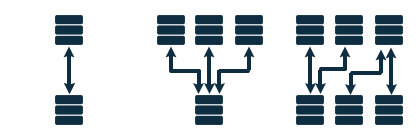
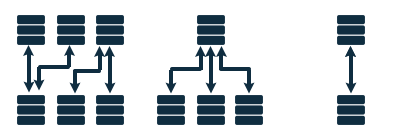
ui changes to relationsview(s)

diff --git a/appcubator/static/js/application/main-app/entities/CreateRelationView.js b/appcubator/static/js/application/main-app/entities/CreateRelationView.js
@@ -8,11 +8,12 @@ function(SelectView) {
     tagName    : 'div',
     collection : null,
     parentName : "",
+    id: 'new-relation',
     className  : 'span58 pane relation-pane',
 
     events : {
-      'click .create-relations-btn' : 'renderRelationsOptions',
-      'click .done-relation'        : 'saveRelationShip'
+      'click .done-relation'        : 'saveRelationShip',
+      'click .cancel-relation'       : 'cancel'
     },
 
     initialize: function(){
@@ -20,7 +21,7 @@ function(SelectView) {
     },
 
     render: function() {
-      this.el.innerHTML= '<div class="hi5 create-relations-btn"><span class="icon"></span>Create a Relation</div>';
+      this.renderRelationsOptions();
       return this;
     },
 
@@ -45,7 +46,7 @@ function(SelectView) {
     },
 
     relationSelected: function(answer) {
-      var cids = answer.val.replace('relation-','');
+      var cids = answer.replace('relation-','');
       var cid1 = cids.split('-')[0];
       var cid2 = cids.split('-')[1];
       var table1 = (v1State.get('users').get(cid1)||v1State.get('tables').get(cid1));
@@ -59,7 +60,7 @@ function(SelectView) {
 
       div.innerHTML  = _.template(TableTemplates.NewRelationTemplate, {table1: table1, table2: table2});
       div.innerHTML += _.template(TableTemplates.NewRelationTemplate, {table1: table2, table2: table1});
-      div.innerHTML += '<div class="btn done-relation">Done</div>';
+      div.innerHTML += '<div class="btn btn-info done-relation">Done</div><div class="btn offset1 cancel-relation">Cancel</div>';
 
       this.el.innerHTML = '';
       this.el.appendChild(div);
@@ -108,6 +109,13 @@ function(SelectView) {
       }
 
       this.render();
+    },
+
+    cancel: function(e) {
+      var self= this;
+      this.$el.fadeOut('fast', function() {
+        self.renderRelationsOptions();
+      });
     }
 
   });

diff --git a/appcubator/static/js/application/data/models/FieldModel.js b/appcubator/static/js/application/data/models/FieldModel.js
@@ -1,15 +1,19 @@
 define(['backbone'], function() {
 
   var FieldModel = Backbone.Model.extend({
-    defaults :{
-      "type"     : "text"
+    defaults : {
+      "name"     : "Property Name",
+      "type"     : "text",
+      "related_name": null,
+      "entity_name": null
     },
 
+    // return a string version of the relationship
     getNLType: function() {
       var type = this.get('type');
 
       if(type == "o2o" || type == "fk") {
-        return this.get('entity_name');
+        return "Has one " + this.get('entity_name');
       }
       if(type == "m2m") {
         return "List of " + this.get('entity_name');
@@ -20,11 +24,12 @@ define(['backbone'], function() {
       return nlType;
     },
 
+    // return the relationship type
     getNL: function() {
       var type = this.get('type');
 
       // if(type == "o2o"){
-      //   return 
+      //   return
       // } || type == "fk") {
       //   return this.get('entity_name');
       // }
@@ -35,6 +40,17 @@ define(['backbone'], function() {
       // var nlType = this.nlTable[type];
 
       // return nlType;
+    },
+
+    // since o2m relationships are stored in the other entity as an fk,
+    // find entities which relate to this model with an fk
+    getOneToManyRelationships: function() {
+      var self = this;
+      var otherEntities = Array.prototype.concat.apply(v1State.get('tables').models, v1State.get('users').models);
+      otherEntities = _.without(otherEntities, this);
+      return _.filter(otherEntities, function(entity) {
+        return (entity.get('type') === 'fk' && entity.get('entity_name') == self.get('name'));
+      });
     },
 
     nlTable: {

diff --git a/appcubator/static/js/application/main-app/templates/TableTemplates.js b/appcubator/static/js/application/main-app/templates/TableTemplates.js
@@ -178,7 +178,7 @@ TableTemplates.NewRelationTemplate = [
 TableTemplates.relationalNL = {};
 
 TableTemplates.relationalNL["o2o"] = [
-'<div class="pane span28 offsetr1 hboff2 relation">',
+'<div class="pane offsetr1 hboff2 relation">',
   '<div class="icon-o2o"></div>',
   '<span class="span16 hoff1 offset1">',
   "<%= owner_entity %> has a <%= entity_name %>, called <%= name %>,",
@@ -188,18 +188,18 @@ TableTemplates.relationalNL["o2o"] = [
 ].join('\n');
 
 TableTemplates.relationalNL["fk"] = [
-'<div class="pane span28 offsetr1 hboff2 relation">',
+'<div class="pane offsetr1 hboff2 relation">',
   '<div class="icon-fk"></div>',
-  '<span class="span16 hoff1 offset1">',
-  "<%= owner_entity %> has a <%= entity_name %>, called <%= name %>,",
-  " and <%= entity_name %> has many <%= owner_entity %>(s) called <%= related_name %>",
+  '<span class="offsetr1 hoff1 offset1">',
+  '<div class="row">A <%= entity_name %> has a list of <%= owner_entity %>s <div>called <strong><%= related_name %></strong></div></div>',
+  '<div class="row hoff2"><%= owner_entity %>s belong to a <%= entity_name %> <div>called <strong><%= name %></strong></div></div>',
   '</span>',
 '</div>'
 ].join('\n');
 
 
 TableTemplates.relationalNL["m2m"] = [
-'<div class="pane span28 offsetr1 hboff2 relation">',
+'<div class="pane offsetr1 hboff2 relation">',
   '<div class="icon-m2m"></div>',
   '<span class="span16 hoff1 offset1">',
   "<%= owner_entity %> has many <%= entity_name %>(s), called <%= name %>,",

diff --git a/appcubator/static/js/application/main-app/entities/EntitiesView.js b/appcubator/static/js/application/main-app/entities/EntitiesView.js
@@ -25,7 +25,8 @@ function(TableCollection,
         'click #add-role'        : 'clickedAddUserRole',
         'keypress #add-role-form'  : 'createUserRole',
         'click #add-entity'      : 'clickedAddTable',
-        'keypress #add-entity-form': 'createTable'
+        'keypress #add-entity-form': 'createTable',
+        'click #add-relation'     : 'showCreateRelationForm',
       },
 
       initialize: function() {
@@ -55,8 +56,8 @@ function(TableCollection,
       },
 
       renderRelations: function() {
-        util.get('relations').appendChild(this.relationsView.render().el);
         util.get('relations').appendChild(this.createRelationView.render().el);
+        util.get('relations').appendChild(this.relationsView.render().el);
       },
 
       clickedAddUserRole: function(e) {
@@ -100,6 +101,10 @@ function(TableCollection,
         $(e.target).hide();
 
         e.preventDefault();
+      },
+
+      showCreateRelationForm: function() {
+        this.createRelationView.$el.fadeIn('fast');
       }
     });
 

diff --git a/appcubator/static/js/application/main-app/entities/RelationsView.js b/appcubator/static/js/application/main-app/entities/RelationsView.js
@@ -8,7 +8,7 @@ function(SelectView) {
     tagName    : 'div',
     collection : null,
     parentName : "",
-    className  : 'span58 relation-pane',
+    className  : 'span58 hoff1 relation-pane',
 
     events : {
 
@@ -22,13 +22,11 @@ function(SelectView) {
     },
 
     render: function() {
-
       var arrRelations = _.union(this.userRelations, this.tableRelations);
       _.each(arrRelations, function(relation) {
         var type = relation.get('type');
         this.el.innerHTML += _.template(TableTemplates.relationalNL[type], relation.toJSON());
       }, this);
-
       return this;
     },
 

diff --git a/appcubator/templates/app-page-templates.html b/appcubator/templates/app-page-templates.html
@@ -147,10 +147,13 @@
   </div>
   <div class="span58" id="tables"></div>
   <div class="span58 hi1"></div>
-  <div class="span58hoff2">
+  <div class="span58 hoff2">
     <h2 class="pheader">Relations</h2>
-    <hr class="span58 hoff1">
+    <div class="button right" id="add-relation">
+      <span class="add-icon"></span><span>Add Relation</span>
+    </div>
   </div>
+  <hr class="span58 hoff1">
   <div class="span58" id="relations"></div>
   <div class="span58" style="height: 45px;"></div>
 </div>

diff --git a/appcubator/static/css/entities.css b/appcubator/static/css/entities.css
@@ -625,6 +625,10 @@ table tr:hover td {
   padding: 10px;
 }
 
+.relation-pane#new-relation {
+  display: none;
+}
+
 .relation-pane .edit-relation-div select {
   width: 140px;
 }
@@ -669,10 +673,11 @@ table tr:hover td {
 }
 
 .icon-o2o {
+  background-position: -280px 0;
 }
 
 .icon-m2m {
-  background-position: -280px 0;
+
 }
 
 .trash .icon {
